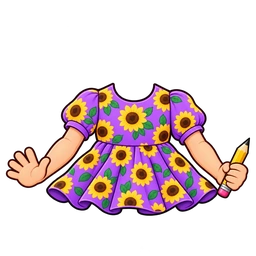
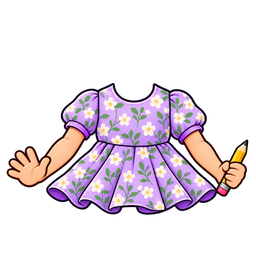
Add orange floral dress and match purple dress to floral bow

Changed region(s): [[0.0, 0.3125, 1.0, 0.8438], [0.8125, 0.5625, 0.8438, 0.5938], [0.2188, 0.5312, 0.25, 0.5625]]

diff --git a/public/core/catalog.js b/public/core/catalog.js
@@ -35,7 +35,8 @@ export const COSMETICS = {
   jersey: cos('outfit', 'outfits/09-sports-jersey.webp', 28, '7번 스포츠 저지', 'Number 7 Jersey'),
   magic: cos('outfit', 'outfits/10-magic-costume.webp', 40, '마법학교 제복', 'Magic Academy Uniform'),
   pinkFlowerDress: cos('outfit', 'outfits/12-pink-flower-dress.webp', 25, '핑크 플라워 드레스', 'Pink Flower Dress'),
-  purpleSunflowerDress: cos('outfit', 'outfits/13-purple-sunflower-dress.webp', 25, '해바라기 퍼플 드레스', 'Purple Sunflower Dress'),
+  purpleSunflowerDress: cos('outfit', 'outfits/13-purple-sunflower-dress.webp?v=purple-floral-20261012', 25, '퍼플 플라워 드레스', 'Purple Floral Dress'),
+  orangeFloralDress: cos('outfit', 'outfits/21-orange-floral-dress.webp', 25, '오렌지 플라워 드레스', 'Orange Floral Dress'),
   redCap: cos('head', 'red-cap.webp', 10, '빨간 모자', 'Red Cap'),
   catEars: cos('head', 'hats/01-cat-ears.webp', 15, '고양이 머리띠', 'Cat Ear Headband'),
   cowboyHat: cos('head', 'hats/02-cowboy-hat.webp', 20, '카우보이 모자', 'Cowboy Hat'),
@@ -86,6 +87,7 @@ export const COSMETICS = {
  */
 const BASE_DAY = '2026-10-03';
 const ADDED = {
+  '2026-10-12': ['purpleSunflowerDress', 'orangeFloralDress'],
   '2026-10-09b': ['boysRashguard', 'girlsRashguard', 'swimGoggles', 'beachBall', 'duckSwimRing', 'stripedSwimRing'],
   '2026-10-09': ['petPengualaBlue', 'petPengualaTurquoise', 'petPengualaPurple'],
   '2026-10-08': ['denimJacket', 'basketballUniform', 'juniorAstronaut', 'jungleExplorer',
@@ -93,7 +95,7 @@ const ADDED = {
   '2026-10-06b': ['strongBoy', 'catEars', 'cowboyHat', 'hardHat', 'propellerHat', 'chickenHat', 'watermelonHat',
     'batmanGlasses', 'heartGlasses', 'starGlasses', 'spiralGlasses', 'frogGlasses',
     'petPuppy', 'petKitten', 'petBunny', 'petHamster', 'petFox', 'petSteve', 'petAlex', 'petCreeper', 'petNoob', 'petBacon'],
-  '2026-10-06a': ['pinkFlowerDress', 'purpleSunflowerDress']
+  '2026-10-06a': ['pinkFlowerDress']
 };
 const LATEST_DAY = Object.keys(ADDED).sort().at(-1);
 for (const [day, ids] of Object.entries(ADDED)) for (const id of ids) COSMETICS[id].added = day;

diff --git a/output/imagegen/orange-floral-dress/prompt.md b/output/imagegen/orange-floral-dress/prompt.md
@@ -1,0 +1,8 @@
+Use case: precise-object-edit
+Asset type: transparent 2D mobile-game wearable dress sprite, matching the existing game's outfit rig.
+IMAGE 1 is the game-sprite EDIT TARGET and exact GEOMETRY/POSE reference: a floral puff-sleeve dress with bare arms, one waving open hand at viewer LEFT, and the other hand holding a yellow pencil with pink eraser at viewer RIGHT.
+IMAGE 2 is GARMENT DESIGN ONLY: a photo of a white/ivory dress with orange/coral flowers, green leaves, delicate peach swirling botanical scrolls and a broad vivid orange wrap sash around the waist. Ignore the photographed person, face, neck, jewelry, hands, background and all text.
+Create a new orange floral dress variant by changing ONLY the garment in IMAGE 1 to the design in IMAGE 2. Keep EXACTLY the game sprite's scale, silhouette bounds, neckline opening location, bare arms, skin tone, waving hand/fingers, right hand and yellow pencil/eraser, camera, clean dark outlines and cute 2D cel shading. No extra arms, head, neck or legs.
+Garment design: creamy white base; lively orange/coral large hibiscus-like blossoms, orange botanical sprays, green leaves and subtle pale peach curling vines on the fitted bodice, short gently puffed sleeves and flared pleated skirt. Reproduce the recognizable WHITE + ORANGE floral color scheme and floral motif from IMAGE 2, not the purple sprite's pattern. A BROAD SOLID bright orange wrap sash at the waist/upper skirt with soft diagonal overlapping folds, like the orange draped waist panel in the photo, is the main distinguishing detail. The floral skirt shows below this sash. No bow or belt buckle added. Keep original sprite neckline cutout so the game character face fits.
+Composition: a square canvas with intentional clear transparent space in the upper third for the game head. Same framing as IMAGE 1. At 256px delivery size, all visible art approximately x5–250 and y82–216, with complete pencil tip and fingers fully visible away from edges. Preserve complete dress hem. Do not zoom into the artwork or move its neckline upward.
+Output only one dress-and-arms sprite on genuine transparent RGBA. Bright smooth illustrated style, not a photograph. No full person, head, jewelry, background, shadows, labels, text or watermark.

diff --git a/output/imagegen/purple-flower-dress/prompt.md b/output/imagegen/purple-flower-dress/prompt.md
@@ -1,0 +1,6 @@
+Use case: precise-object-edit
+Asset type: transparent 2D mobile game wearable sprite.
+IMAGE 1 is the EDIT TARGET: purple sunflower dress with a left waving hand and a right hand holding a yellow pencil. IMAGE 2 is ONLY the fabric COLOR AND PATTERN reference: lavender purple floral hair bow.
+Edit ONLY the fabric colors and printed floral pattern of the dress in IMAGE 1 so it forms a matching outfit with IMAGE 2. Replace saturated purple fabric with the SAME soft pastel lilac/lavender purple as the bow. Replace ALL big yellow sunflowers with the SAME small delicate ivory/cream five-petal blossoms, pale yellow centers, slender green stems and paired green leaves seen printed across the bow wings. Match blossom shapes, relative small motif size, spacing, green leaf tones and creamy highlights. Keep the print consistent on puff sleeves, bodice and skirt. Preserve existing dark purple waist belt/seams, harmonious lavender shading, crisp dark outlines and cel-shaded style. Use the bow as a textile reference, not an object to insert.
+STRICTLY preserve the original sprite's dress silhouette, round neckline cutout, short puff sleeves, waist, pleated flared hem, every arm/hand/finger, skin tone, left waving pose and right hand with the same yellow pencil and pink eraser. Same front-facing camera, placement, scale, proportions and transparent canvas padding as IMAGE 1. No head, neck, extra limbs, bow, ribbons, accessories or new objects. Do not add scalloped lace or a central flower ornament; just match the fabric color and printed botanical motif.
+Output one complete dress-and-arms sprite on genuine transparent RGBA background. Prefer the exact original square canvas composition; all edges stay fully visible. No opaque background, painted checkerboard, text, watermark or shadow.

diff --git a/output/imagegen/floral-dresses-20261012/review.md b/output/imagegen/floral-dresses-20261012/review.md
@@ -1,0 +1,9 @@
+# 플라워 드레스 2종
+
+퍼플 플라워 드레스는 기존 `purpleSunflowerDress` 항목의 그림과 이름을 갱신해 기존 보유 정보를 유지했다. 새 `orangeFloralDress`는 사진의 흰 바탕, 주황색 꽃무늬와 넓은 주황색 랩 허리띠를 게임 스타일로 옮긴 드레스이다. 둘 다 옷 슬롯,25 Sparkles,2026-10-12 신규 배치로 등록했다. 이전 배치의 퍼플 ID를 제거해 신규 날짜가 덮어써지지 않도록 했다.
+
+생성 도구: 내장 image_gen. 실제 프롬프트는 `../purple-flower-dress/prompt.md`, `../purple-flower-dress/margin-prompt.md`, `../orange-floral-dress/prompt.md`에 보관했다. 원본 사진은 로컬 제작 입력으로만 보관한다. 팔·손·연필을 포함한 기존 게임 의상 구도와 투명 배경을 유지했다. Sharp는256×256 크기와lossless WebP 형식 변환에만 사용했다.
+
+QA: 두 에셋 모두256×256, 실제 alpha0–255. 퍼플 보이는 영역 `[6,83,249,215]`, 오렌지 `[6,76,254,217]`이며 캔버스 경계에서 잘리지 않는다. 실제 로컬 상점에서 두 드레스가 맨 위에 NEW/25 표시로 나타나는 것을 확인했고 각각 눌러 입어보기 동작을 확인했다. 실제 `createCharacter` 렌더러로 만두의 퍼플 드레스+퍼플 플라워 리본, 오렌지 드레스를 확인했다. 확인 화면은 `render-review.png`이다. 구매·착용 확정은 사용자 계정에서 실행하지 않았다.
+
+기존 서버·카탈로그·의상 테스트27개 통과. `git diff --check` 통과.

diff --git a/output/imagegen/purple-flower-dress/review.md b/output/imagegen/purple-flower-dress/review.md
@@ -1,0 +1,9 @@
+# 헤어리본과 맞춘 퍼플 플라워 드레스
+
+내장 image_gen으로 원래 드레스의 원단 색상과 패턴을 헤어리본에 맞췄다. 연보라/라벤더 바탕, 크림색 다섯 꽃잎과 옅은 노란 중심, 초록 줄기와 잎을 적용했다. 드레스 실루엣, 목 파임, 소매와 치마 주름, 양쪽 팔·손과 연필을 유지하도록 요청했다. exact generation prompts: `prompt.md`, `margin-prompt.md`.
+
+생성된 RGBA를 Sharp로 원래 규격인256×256 lossless WebP에 맞춰 저장했다. 드로잉과 패턴 수정은 image_gen으로 수행했으며 Sharp는 크기·파일 형식 변환에만 사용했다. 완성본은 `dress-final.webp`, 게임 에셋은 `public/assets/wearables/outfits/13-purple-sunflower-dress.webp`이다. 원본은 `input/original-dress.webp`에 보관했다.
+
+검증: 실제 alpha 범위0–255, 보이는 영역(alpha≥16) `[6,83,249,215]`, 원본 `[5,82,250,216]`. 정사각형 캔버스와 원래 배치를 유지하고 그림이 경계에 닿지 않음을 확인했다. 최종256px 파일의 꽃무늬, 팔과 손, 연필과 투명 배경을 육안 검토했다.
+
+상점 이름을 퍼플 플라워 드레스/Purple Floral Dress로 바꾸고 에셋 URL 버전을 갱신했다. 기존 보유 아이템 식별자와 가격은 유지했다.

diff --git a/output/imagegen/purple-flower-dress/margin-prompt.md b/output/imagegen/purple-flower-dress/margin-prompt.md
@@ -1,0 +1,4 @@
+Use case: precise-object-edit
+IMAGE 1 is the edit target: finished lavender dress with ivory flower/green botanical print and arms/pencil. IMAGE 2 is the original sprite solely as composition/geometry reference. Preserve IMAGE 1's new fabric color and pattern exactly; do NOT bring back yellow sunflowers.
+Change ONLY canvas fit and repair the pencil tip at the RIGHT edge. The yellow pencil tip must be completely visible, with a clean dark outline and at least4% canvas width (about50px at1254px output) of fully transparent padding to its right. Keep full left waving hand, every finger, both arms and the whole skirt in frame with the same transparent padding. Slightly reduce the complete sprite uniformly if needed, never distort or separately scale elements. Use the original sprite's framing and neckline height as the composition guide.
+Keep dress silhouette, neckline cutout, purple sleeve cuffs and waistband, all pleats, floral print, skin tone, arm pose, yellow pencil and pink eraser, clean 2D cel-shading and contours. No added body/head/neck/accessories/shadow/text. Square transparent RGBA PNG. Do not zoom in or enlarge the sprite to fill canvas width. Full pencil sharp tip visible and isolated from the right border.
